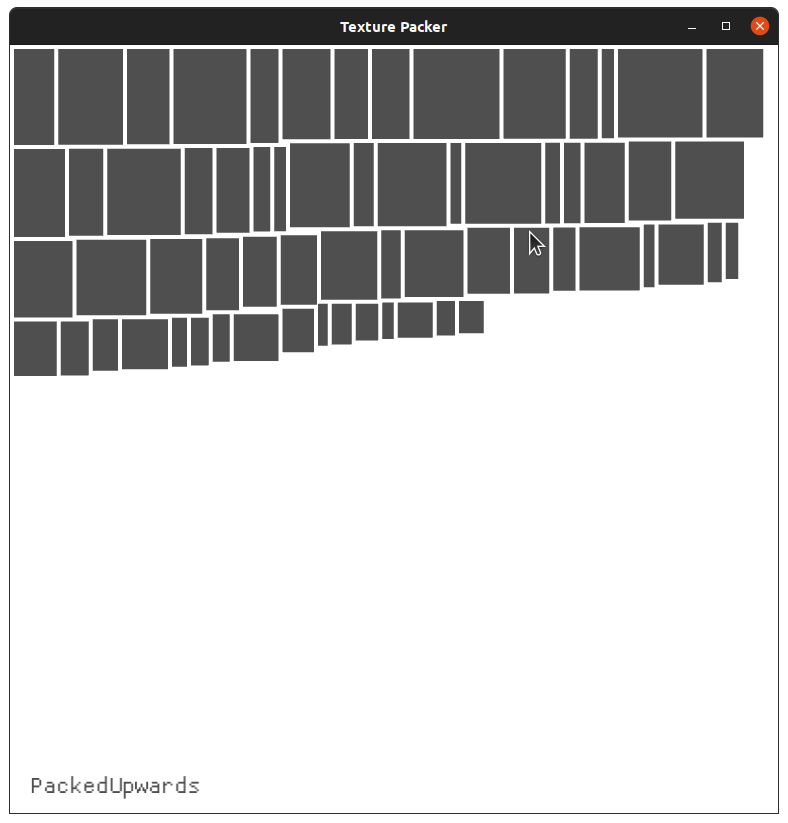
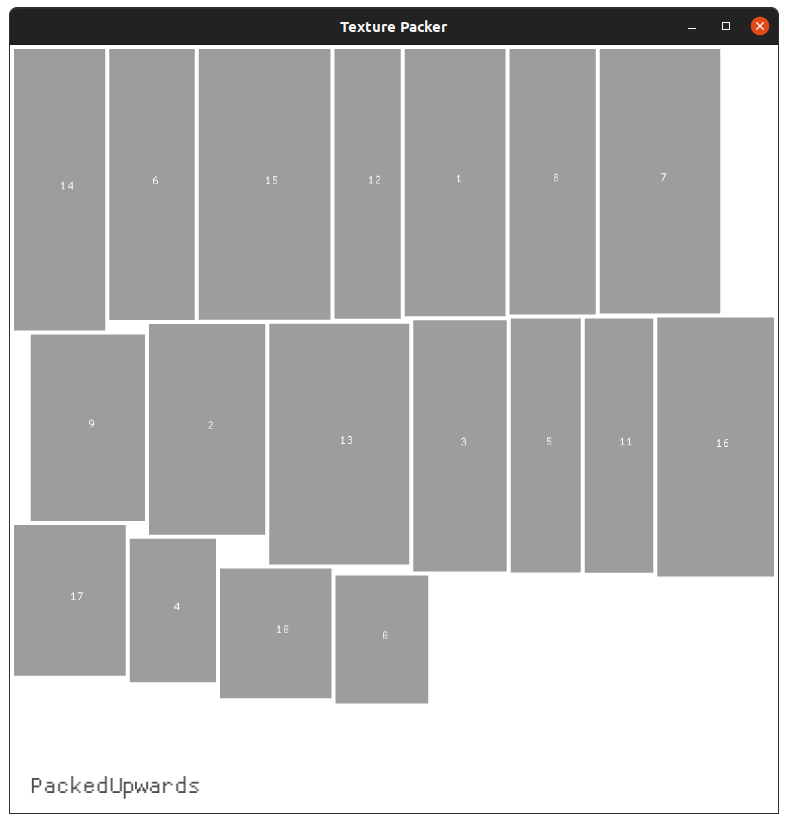
Fix the "flowed" state
- The flowed state is supposed to follow a zig-zag left->right,
  right->left row to row.

diff --git a/src/main.rs b/src/main.rs
@@ -84,15 +84,17 @@ impl InitialState {
         let mut patches: Vec<Patch> = Vec::new();
         let cell_width = screen_width() / (cols as f32);
         let cell_height = screen_height() / (rows as f32);
-        let min_width = cell_width * 0.1;
-        let min_height = cell_height * 0.1;
+        let max_width = cell_width * 1.1;
+        let max_height = cell_height * 1.1;
+        let min_width = cell_width * 0.5;
+        let min_height = cell_height * 0.5;
 
         for row in 0..rows {
             for col in 0..cols {
                 let across_x = (col as f32) / (cols as f32);
                 let across_y = (row as f32) / (rows as f32);
-                let width = rand::gen_range(min_width, cell_width);
-                let height = rand::gen_range(min_height, cell_height);
+                let width = rand::gen_range(min_width, max_width);
+                let height = rand::gen_range(min_height, max_height);
                 let center_x = (screen_width() * across_x) + (cell_width / 2.);
                 let center_y = (screen_height() * across_y) + (cell_height / 2.);
                 let patch = Patch {
@@ -157,17 +159,32 @@ impl FlowedState {
         let mut current_x = padding;
         let mut row_height = 0f32;
         let mut result: Vec<Patch> = Vec::new();
+        let mut row = 0;
 
         for patch in &state.patches {
-            if current_x + patch.width() > screen_width() {
-                current_x = padding;
-                current_y += row_height;
-                row_height = 0f32;
+            if row % 2 == 0 {
+                if current_x + patch.width() > screen_width() {
+                    current_x = screen_width() - padding - patch.width();
+                    current_y += row_height;
+                    row_height = 0f32;
+                    row += 1;
+                }
+            } else {
+                current_x -= patch.width() + padding;
+                if current_x < padding {
+                    current_x = padding;
+                    current_y += row_height;
+                    row_height = 0.;
+                    row += 1;
+                }
             }
 
             result.push(patch.with_left_and_top(current_x, current_y));
-            current_x += patch.width() + padding;
             row_height = row_height.max(patch.height() + padding);
+
+            if row % 2 == 0 {
+                current_x += patch.width() + padding;
+            }
         }
 
         Self { patches: result }
@@ -240,7 +257,9 @@ impl Sequence {
             Sequence::Initial(state) => Sequence::Upright(UprightedState::from(state)),
             Sequence::Upright(state) => Sequence::Sorted(SortedByHeightState::from(state, padding)),
             Sequence::Sorted(state) => Sequence::Flowed(FlowedState::from(state, padding)),
-            Sequence::Flowed(state) => Sequence::PackedUpwards(PackedUpwardsState::from(state, padding)),
+            Sequence::Flowed(state) => {
+                Sequence::PackedUpwards(PackedUpwardsState::from(state, padding))
+            }
             Sequence::PackedUpwards(_) => self,
         }
     }
@@ -343,6 +362,7 @@ async fn main() {
     let mut previous_patches = None;
     let mut current_patches = sequence.patches().clone();
     let mut last_step_time = None;
+    let patch_color: Color = [60, 60, 60, 128].into();
 
     loop {
         if is_key_pressed(KeyCode::Space) {
@@ -373,11 +393,11 @@ async fn main() {
                     previous_patches,
                     &current_patches,
                     elapsed as f32,
-                    DARKGRAY,
+                    patch_color,
                 );
             }
         } else {
-            draw_patches(&current_patches, DARKGRAY);
+            draw_patches(&current_patches, patch_color);
         }
 
         draw_text(
